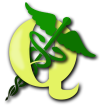
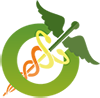
New KML export fonctionnality

diff --git a/src/gui/export/kml.py b/src/gui/export/kml.py
@@ -1,0 +1,70 @@
+# -*- coding: utf-8 -*-
+"""
+/***************************************************************************
+
+                                 GeoHealth
+                                 A QGIS plugin
+
+                              -------------------
+        begin                : 2014-08-20
+         copyright            : (C) 2014 by Etienne Trimaille, (C) 2017 by
+        Rachel Gorée et Christophe Révillion
+        email                : etienne@trimaille.eu
+ ***************************************************************************/
+
+/***************************************************************************
+ *                                                                         *
+ *   This program is free software; you can redistribute it and/or modify  *
+ *   it under the terms of the GNU General Public License as published by  *
+ *   the Free Software Foundation; either version 2 of the License, or     *
+ *   (at your option) any later version.                                   *
+ *                                                                         *
+ ***************************************************************************/
+"""
+
+
+import codecs
+from PyQt4.QtGui import QWidget, QDialogButtonBox, QFileDialog
+from PyQt4.QtCore import pyqtSignal
+
+from qgis.gui import QgsMapLayerProxyModel
+from qgis.core import QgsVectorFileWriter
+
+from GeoHealth.src.core.tools import tr
+from GeoHealth.src.utilities.resources import get_ui_class
+
+FORM_CLASS = get_ui_class('export', 'export_kml.ui')
+
+
+class KmlExport(QWidget, FORM_CLASS):
+
+    signalAskCloseWindow = pyqtSignal(int, name='signalAskCloseWindow')
+    signalStatus = pyqtSignal(int, str, name='signalStatus')
+
+    def __init__(self, parent=None):
+        self.parent = parent
+        super(KmlExport, self).__init__()
+        self.setupUi(self)
+
+        self.buttonBox.button(QDialogButtonBox.Save).clicked.connect(
+            self.save_kml)
+        self.buttonBox.button(QDialogButtonBox.Cancel).clicked.connect(
+            self.signalAskCloseWindow.emit)
+        # noinspection PyUnresolvedReferences
+        self.bt_browse.clicked.connect(self.open_file_browser)
+        self.cbx_layer.setFilters(QgsMapLayerProxyModel.VectorLayer)
+
+    def open_file_browser(self):
+        # noinspection PyArgumentList
+        output_file = QFileDialog.getSaveFileNameAndFilter(
+            parent=self.parent,
+            caption=tr('Export as KML'),
+            filter='KML (*.kml)')
+        self.le_output.setText(output_file[0])
+
+    def save_kml(self):
+        path = self.le_output.text()
+        layer = self.cbx_layer.currentLayer()
+        QgsVectorFileWriter.writeAsVectorFormat(
+            layer, path, 'utf-8', None, 'kml')
+        self.signalStatus.emit(3, tr('Successful export to %s' % path))

diff --git a/src/gui/main_window.py b/src/gui/main_window.py
@@ -7,7 +7,8 @@
 
                               -------------------
         begin                : 2014-08-20
-        copyright            : (C) 2014 by Etienne Trimaille
+        copyright            : (C) 2014 by Etienne Trimaille, (C) 2017 by
+        Rachel Gorée
         email                : etienne@trimaille.eu
  ***************************************************************************/
 
@@ -20,6 +21,7 @@
  *                                                                         *
  ***************************************************************************/
 """
+
 
 from PyQt4.QtGui import QDialog, QTreeWidgetItem, QTabWidget, QIcon
 from PyQt4.QtCore import QSize
@@ -36,6 +38,7 @@ from GeoHealth.src.doc.help import (
     help_incidence_point,
     help_density_point,
     help_attribute_table,
+    help_export_kml,
 )
 from GeoHealth.src.gui.import_gui.open_shapefile import (
     OpenShapefileWidget)
@@ -52,6 +55,7 @@ from GeoHealth.src.gui.analysis.density_dialog import DensityDialog
 from GeoHealth.src.gui.analysis.density_point_dialog import (
     DensityPointDialog)
 from GeoHealth.src.gui.export.csv import CsvExport
+from GeoHealth.src.gui.export.kml import KmlExport
 from GeoHealth.src.gui.about import AboutWidget
 from GeoHealth.src.utilities.resources import get_ui_class, resource
 
@@ -190,6 +194,15 @@ class MainDialog(QDialog, FORM_CLASS):
                         'content': {
                             'widget': CsvExport(),
                             'help': help_attribute_table()
+                        }
+                    },
+
+                    {  # ajoute par Rachel Goree 30/05/2017
+                        'label': 'KML',
+                        'icon': resource('kml.png'),
+                        'content': {
+                            'widget': KmlExport(),
+                            'help': help_export_kml()
                         }
                     }
                 ]

diff --git a/src/doc/help.py b/src/doc/help.py
@@ -7,7 +7,8 @@
 
                               -------------------
         begin                : 2014-08-20
-        copyright            : (C) 2014 by Etienne Trimaille
+        copyright            : (C) 2014 by Etienne Trimaille, (C) 2017 by
+        Rachel Gorée et Christophe Révillion
         email                : etienne@trimaille.eu
  ***************************************************************************/
 
@@ -20,6 +21,7 @@
  *                                                                         *
  ***************************************************************************/
 """
+
 
 from os.path import dirname, abspath, join
 from GeoHealth.src.core.tools import tr
@@ -334,6 +336,21 @@ def help_attribute_table():
     ]
     outputs = [
         tr('CSV file')
+    ]
+    more = [
+    ]
+    html = html_table(title, intro, inputs, outputs, more)
+    return html
+
+
+def help_export_kml():
+    title = tr('Export KML')
+    intro = tr('Export a vector layer as KML')
+    inputs = [
+        tr('Choose a vector layer')
+    ]
+    outputs = [
+        tr('Choose a path and name to store the KML file')
     ]
     more = [
     ]
